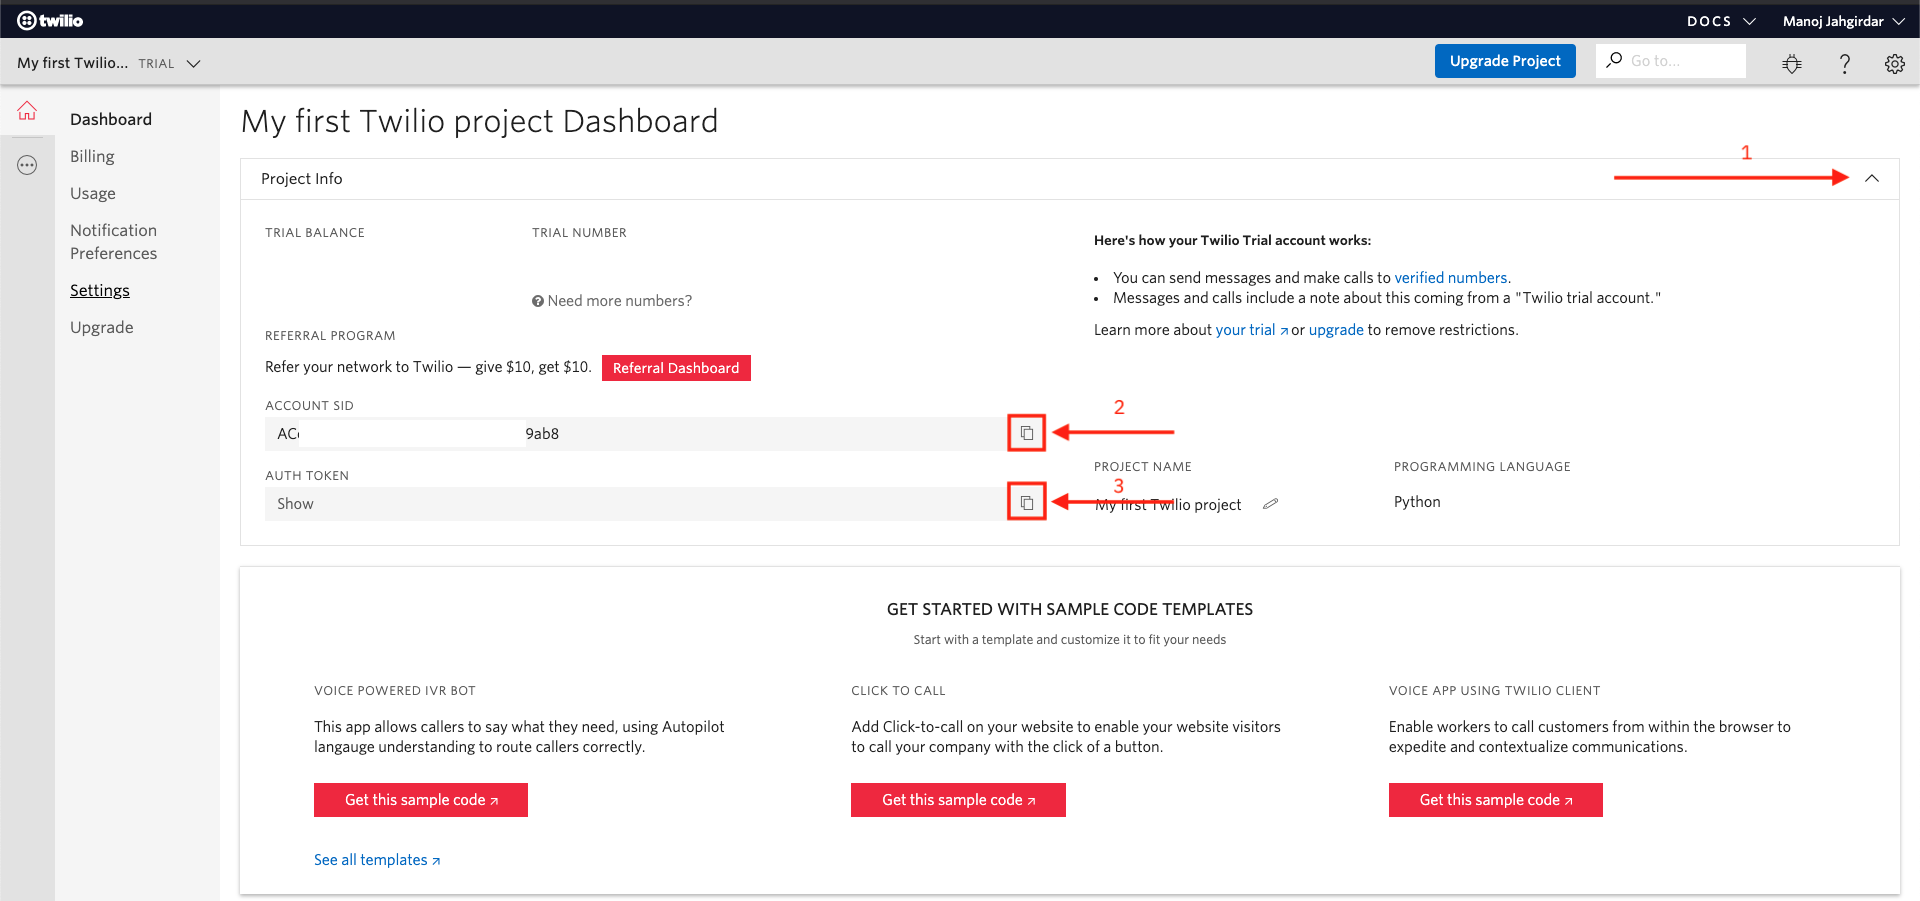
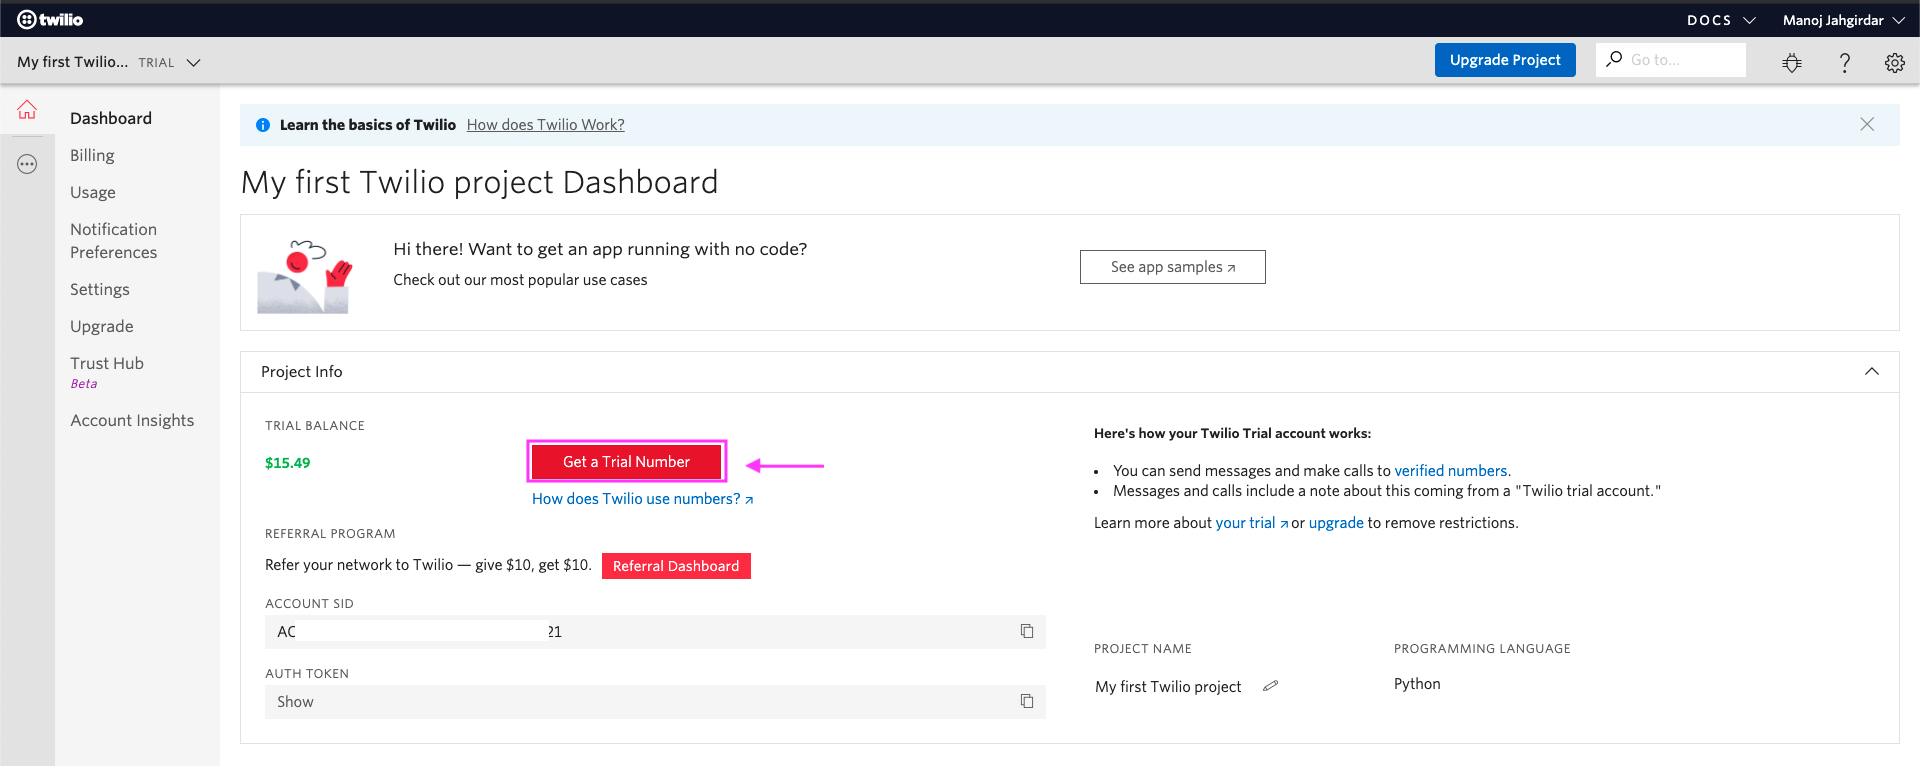
modified step 2 & 3

diff --git a/README.md b/README.md
@@ -67,60 +67,55 @@ Twlio is a SaaS offering that provides APIs to make and receive calls or text me
 
 - Enter the your details to signup as shown.
 
-![twilio-signup](doc/source/images/createTwilio.png)
+    ![twilio-signup](doc/source/images/createTwilio.png)
 
 - Once you create a twilio service, you will have to verify your email id as well as your phone number.
 
 - To verify your email id, visit your registered email id and you will see a mail from twilio with a verification link, go ahead and verify.
 
-![](doc/source/images/verifyTwilio.png)
+    ![](doc/source/images/verifyTwilio.png)
 
 - Once email id is verified you will be prompted to enter your phone number, submit that and you will get an OTP on your registered number, enter that back to verify.
 
-![](doc/source/images/verifyMobileTwilio.png)
+    ![](doc/source/images/verifyMobileTwilio.png)
 
 - On successful verification you should see a welcome greeting message, additionally you will see a question **Do you write code?**, select **Yes** to proceed.
 
-![](doc/source/images/twilioWelcome.png)
+    ![](doc/source/images/twilioWelcome.png)
 
 - The second question asked to you would be **What is your preferred language?**, select **Python** to proceed.
 
-![](doc/source/images/twilioWelcome2.png)
+    ![](doc/source/images/twilioWelcome2.png)
 
 - Third question asked to you would be **What is your goal today?**, select **Use Twilio in a project** to proceed.
 
-![](doc/source/images/twilioWelcome3.png)
+    ![](doc/source/images/twilioWelcome3.png)
 
-- The final question asked to you would be **What do you want to do first?**, select **Send WhatsApp messages** to proceed.
+- The final question asked to you would be **What do you want to do first?**, select **Skip to dashboard** to proceed.
 
-![](doc/source/images/twilioWelcome4.png)
-
-- You will then see a popup box requesting you to **Activate Your Sandbox**, click on **I agree** checkbox and click **Confirm**.
-
-![](doc/source/images/allowSandbox.png)
-
-- The sandbox for WhatsApp will appear, make a note of the `Sandbox Name` which will be prefixed with **join**, click on **Settings** on the left panel and select **WhatsApp Sandbox Settings**.
-
-![](doc/source/images/twilioSettings.png) 
-
-- In **WhatsApp Sandbox Settings** page, under **Sandbox Configuration**, there will be a field called **WHEN A MESSAGE COMES IN**, replace the existing URL in that field with the `URL` obtained by deploying the framework from [Step 3](#3-deploy-the-server-application-on-ibm-cloud-foundry), finally click on **Save** to save the configuration.
-
-![](doc/source/images/whatsappSandbox.png)
-
->NOTE: Sometimes the changes are not saved in Twilio WhatsApp Sandbox Settings even after clicking on save, reload the page to enusre the `URL` that you have entered in **WHEN A MESSAGE COMES IN** field is reflecting over there. If you still see the old URL over there then enter the `URL` from [Step 2](#2-deploy-the-server-application-on-ibm-cloud-foundry) again and save it.
-
-- Now the Backend server is configured in Twilio, any message that you send from WhatsApp from this point will go to the backend server via Twilio WhatsApp Sandbox. However to reply back to you from WhatsApp the backend server needs to establish connection with Twilio.
-
-- To establish connection between the backend server and Twilio we need to get the `account_sid` and `auth_token` from Twilio. 
-
-- Visit <https://www.twilio.com/console> and expand the **Project Info** tab. You will see the `ACCOUNT ID` and `AUTH TOKEN`, copy it in some notepad as it will be used in [Step 5](#5-configure-credentials).
+    ![](doc/source/images/twilioWelcome4.png)
  
-![](doc/source/images/twilio-credentials-from-twilio-console.png)
+- You will need a twilio `Trial Number` to send messages through the OTP. Click on **Get a Trial Number** as shown.
 
-- At this point, you should have the `Sandbox Name`, `account_sid` and `auth_token` from Twilio service.
+    ![](doc/source/images/twilio-credentials-from-twilio-console.png)
 
-- Now lets create the required watson services.
+- Click on **Choose this Number** to continue. 
 
+    ![](doc/source/images/twilioNo.png)
+
+- A confirmation will be displayed once the number is generated, click on **Done**.
+
+    ![](doc/source/images/congrats.png)
+
+- To establish connection between the APIs and Twilio we need to get the `trial_phone_number`, `account_sid` and `auth_token` from Twilio. 
+
+- Visit <https://www.twilio.com/console> and expand the **Project Info** tab. You will see the `TRIAL NUMBER`, `ACCOUNT SID` and `AUTH TOKEN`, copy it in some notepad as it will be used in [Step 3](#3-deploy-custom-apis-on-cloud).
+
+    ![](doc/source/images/credentials-twilio.png)
+
+- At this point, you should have the `TRIAL NUMBER`, `ACCOUNT SID` and `AUTH TOKEN` from Twilio service.
+
+- Now lets deploy the custom APIs and configure twilio credentials.
 
 ### 3. Deploy Custom APIs on Cloud
 
@@ -128,57 +123,57 @@ Twlio is a SaaS offering that provides APIs to make and receive calls or text me
 
 - From the cloned repo, goto **custom-apis-for-authentication** directory in terminal, and run the following commands to deploy the Application to IBM Cloud Foundry.
 
-```bash
-$ cd custom-apis-for-authentication/
-```
+    ```bash
+    $ cd custom-apis-for-authentication/
+    ```
 
 * Log in to your IBM Cloud account, and select an API endpoint.
-```bash
-$ ibmcloud login
-```
+    ```bash
+    $ ibmcloud login
+    ```
 
 >NOTE: If you have a federated user ID, instead use the following command to log in with your single sign-on ID.
 
-```bash
-$ ibmcloud login --sso
-```
+    ```bash
+    $ ibmcloud login --sso
+    ```
 
 * Target a Cloud Foundry org and space:
-```bash
-$ ibmcloud target --cf
-```
+    ```bash
+    $ ibmcloud target --cf
+    ```
 
-* From within the _custom-apis-for-authentication_ push your app to IBM Cloud.
-```bash
-$ ibmcloud cf push otp-api
-```
+* From within the _custom-apis-for-authentication_ directory push your app to IBM Cloud.
+    ```bash
+    $ ibmcloud cf push otp-api
+    ```
 
 - The [manifest.yml](custom-apis-for-authentication/manifest.yml) file will be used here to deploy the application to IBM Cloud Foundry.
 
 - On Successful deployment of the application you will see something similar on your terminal as shown.
 
-<pre><code>Invoking 'cf push'...
+    <pre><code>Invoking 'cf push'...
 
-Pushing from manifest to org manoj.jahgirdar@in.ibm.com / space dev as manoj.jahgirdar@in.ibm.com...
+    Pushing from manifest to org manoj.jahgirdar@in.ibm.com / space dev as manoj.jahgirdar@in.ibm.com...
 
-...
+    ...
 
-Waiting for app to start...
+    Waiting for app to start...
 
-name:              otp-api
-requested state:   started
-routes:            <b>otp-api.xx-xx.mybluemix.net </b>
-last uploaded:     Sat 16 May 18:05:16 IST 2020
-stack:             cflinuxfs3
-buildpacks:        python
+    name:              otp-api
+    requested state:   started
+    routes:            <b>otp-api.xx-xx.mybluemix.net </b>
+    last uploaded:     Sat 16 May 18:05:16 IST 2020
+    stack:             cflinuxfs3
+    buildpacks:        python
 
-type:            web
-instances:       1/1
-memory usage:    512M
-start command:   python app.py
-     state     since                  cpu     memory           disk           details
-#0   <b>running</b>   2020-05-16T12:36:15Z   12.6%   116.5M of 512M   796.2M of 1
-</code></pre>
+    type:            web
+    instances:       1/1
+    memory usage:    512M
+    start command:   python app.py
+        state     since                  cpu     memory           disk           details
+    #0   <b>running</b>   2020-05-16T12:36:15Z   12.6%   116.5M of 512M   796.2M of 1
+    </code></pre>
 
 * Once the app is deployed you can visit the `routes` to launch the application.
 
@@ -188,8 +183,17 @@ start command:   python app.py
 
 - Visit the `URL` in your browser to access the framework.
 
->Example: http://otp-api.xx-xx.mybluemix.net
+    >Example: http://otp-api.xx-xx.mybluemix.net
 
+    ![](doc/source/images/screenshot.png)
+
+- Click on the **Add Twilio Credentials** button and enter the `TRIAL NUMBER`, `ACCOUNT SID` and `AUTH TOKEN` copied in the previous step.
+
+    ![](doc/source/images/add-twilio.png)
+
+- Once the credentials are entered you will see the status as `Configured` as shown.
+
+    ![](doc/source/images/twilio-conf.png)
 
 ### 4. Create a Cloud Function Action
 - Login to IBM Cloud, and create a [Create a cloud function action](https://cloud.ibm.com/functions/create/action).
